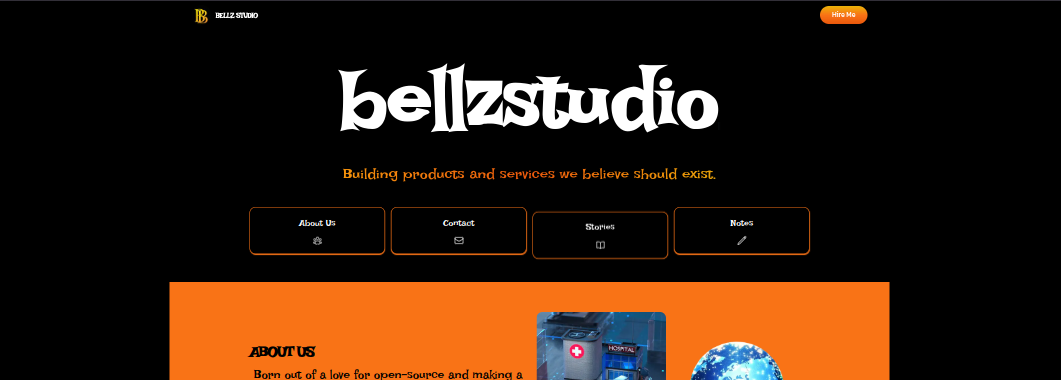
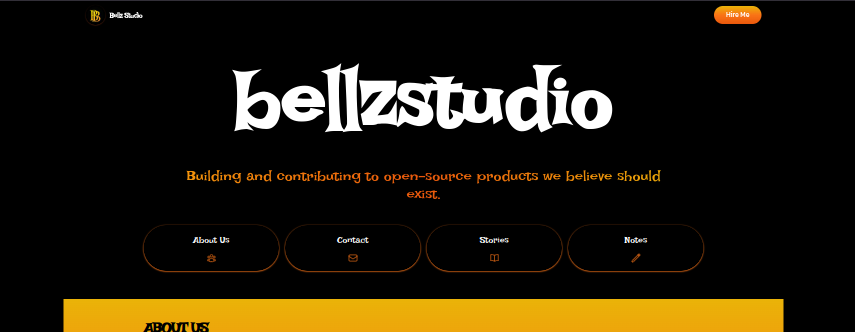
Note OG

diff --git a/components/mock_data.ts b/components/mock_data.ts
@@ -266,11 +266,26 @@ export const noteEntries: iNoteEntry[] = [
     },
     title: "AI-Powered Teaching Assistant",
     body: "Exploring how AI can aid education as a teaching assistant, extending beyond text to include speech. This can help schools in Nigeria that can't afford quality teachers and assist schools with good teachers by providing AI-powered assistants to answer follow-up questions, hold teaching/class sessions based on preset curriculum/plan and test students. \n\n Users would also be able to upload books or specify topics, and the AI assistant will create a teaching plan and deliver it through audio or video. By leveraging AI, we can bridge the educational gap, ensuring that every student has access to quality education, regardless of their location or financial situation. \n\n School boards can reduce costs on hiring additional assistant teachers. This technology can revolutionize the way we approach teaching, making it more interactive, personalized, efficient and in places like rural Nigeria, help school owners spend less on hiring more teachers. \n The AI assistant can also provide real-time feedback, helping students to understand complex concepts and improve their learning outcomes. This could be a game-changer, especially for the rural Nigerian educational sector, offering a scalable solution to the shortage of qualified teachers and enhancing the overall learning experience.",
-    tags: ["education", "thinking-out-loud", "ai", "teaching-assistant"],
+    tags: ["education", "thinking-out-loud", "ai", "ai-tutor", "teaching-assistant"],
     privacy_level: "public",
     image: "/assets/images/ai-tutor.png",
     written_at: new Date("2025-02-11T12:28:17Z")
-  }
+  },
+  // {
+  //   _id: "10",
+  //   author: {
+  //     _id: "user",
+  //     username: "olaniyi_george",
+  //     email: "olaniyigeorge77@gmail.com",
+  //     image: "https://lh3.googleusercontent.com/a/ACg8ocKMGmRvm7nzT-dv4uGOduWFj6GCFfy3H7MZFcfSxGgaZwtHD8hR=s96-c"
+  //   },
+  //   title: "",
+  //   body: "",
+  //   tags: ["bellzstudio"],
+  //   privacy_level: "public",
+  //   image: "",
+  //   written_at: new Date("2025-02-11T12:28:17Z")
+  // },
 ];
 
 

diff --git a/app/notes/[id]/page.tsx b/app/notes/[id]/page.tsx
@@ -1,6 +1,37 @@
 import { noteEntries } from "@/components/mock_data"
 import Image from "next/image";
 
+export async function generateMetadata( {params }: { params: { id: string } }) {
+    const note = noteEntries.find((note) => note._id === params.id) 
+    if (!note) {
+        return <div className="w-full hero_title text-red-500">Note not found</div>;
+    }
+
+    return {
+        title: `${note.title} | Notes | Bellz Studio`,
+        description: `${note.body.slice(0, 120)}`,
+        openGraph: {
+        title: `${note.title}`,
+        description: `${note.body.slice(0, 80)}`,
+        url: `https://bellzstudios.vercel.app/notes/${note._id})}`, // "https://www.bellzstudio.com", 
+        siteName: "Bellz Studio",
+        images: [
+            {
+            url: `https://bellzstudios.vercel.app${note.image}`,
+            width: 1200,
+            height: 630,
+            alt: `${note.title}`,  
+            },
+        ],
+        type: "website",
+        },
+        twitter: {
+        card: "summary_large_image",
+        images: `https://bellzstudios.vercel.app${note.image}`,
+    },
+        }
+}
+  
 export default async function NotePage({params }: { params: { id: string } })  {
 
     const note = noteEntries.find((note) => note._id === params.id)
@@ -35,8 +66,8 @@ export default async function NotePage({params }: { params: { id: string } })  {
 
         
 
-            <section className="w-full flex object-contain flex-col mt-2 items-center bg-gray-800 bg-opacity-10 backdrop-blur-lg rounded-xl p-4">               
-                <p className="text-balance p-2 tracking-loose leading-loose text-xl md:text-2xl lg:text-3xl font-sans font-light whitespace-pre-line">
+            <section className="w-full flex object-contain font-poppins flex-col mt-2 items-center bg-gray-800 bg-opacity-10 backdrop-blur-lg rounded-xl p-4">               
+                <p className="text-wrap p-2 tracking-loose leading-loose text-xl md:text-2xl lg:text-3xl font-light whitespace-pre-line">
                     {note.body}
                 </p>    
             </section>

diff --git a/sections/new-hero-section.tsx b/sections/new-hero-section.tsx
@@ -17,7 +17,7 @@ export const NewHeroSection= () => {
     
 
     return (
-        <section className="page-section w-full flex flex-col items-center py-4 md:py-6">
+        <section className="page-section w-full flex flex-col items-center py-4">
           <Typer 
             id='hero' 
             delay={90}
@@ -32,7 +32,7 @@ export const NewHeroSection= () => {
               Building and contributing to open-source products we believe should exist.
           </span> 
   
-          <div className="w-full flex my-6 lg:my-8 gap-3 justify-between items-center" >
+          <div className="w-full flex my-6 gap-3 justify-between items-center" >
             {links.map((link) => (
               <ScrollDownAnimation 
                   key={link.id} 

diff --git a/components/notes-feed.tsx b/components/notes-feed.tsx
@@ -35,8 +35,8 @@ const Feed = () => {
   const [searchedResults, setSearchedResults] = useState<iNoteEntry[]>([]);
 
   const fetchPosts = async () => {
-    const response = await fetch("/api/notes/");
-    console.log(response);
+    // const response = await fetch("/api/notes/");
+    // console.log(response);
     const data = noteEntries; // await response.json();
 
     // Sort the data by updatedAt field in descending order
